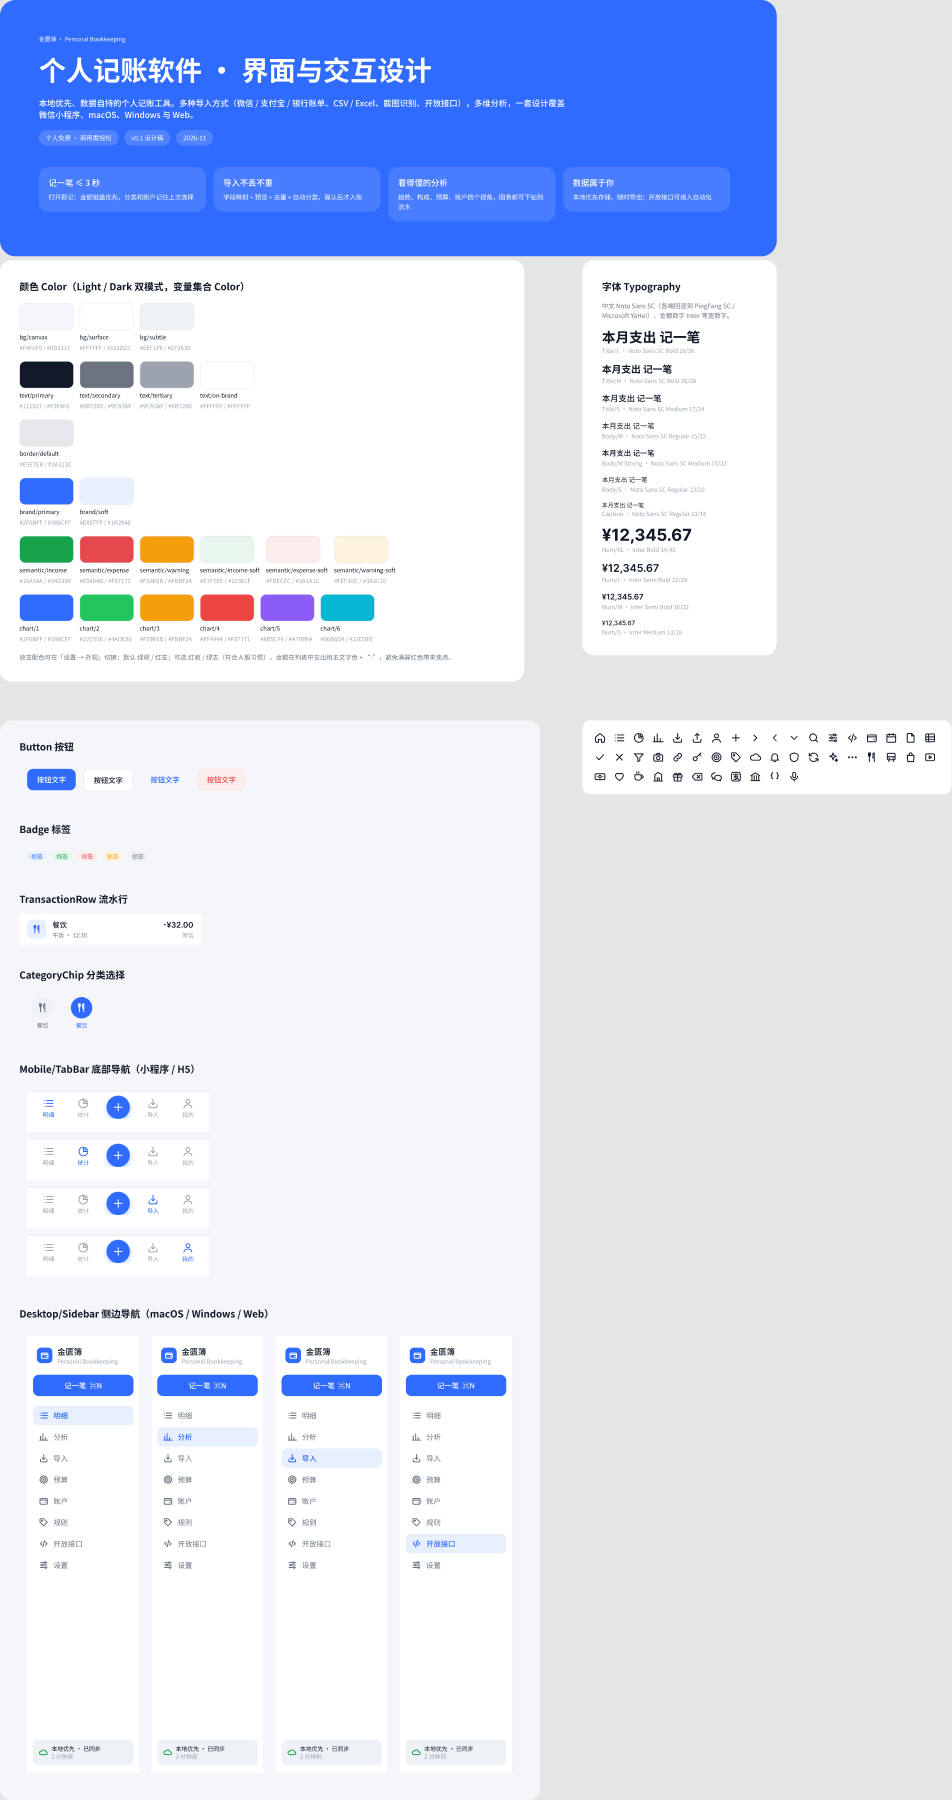
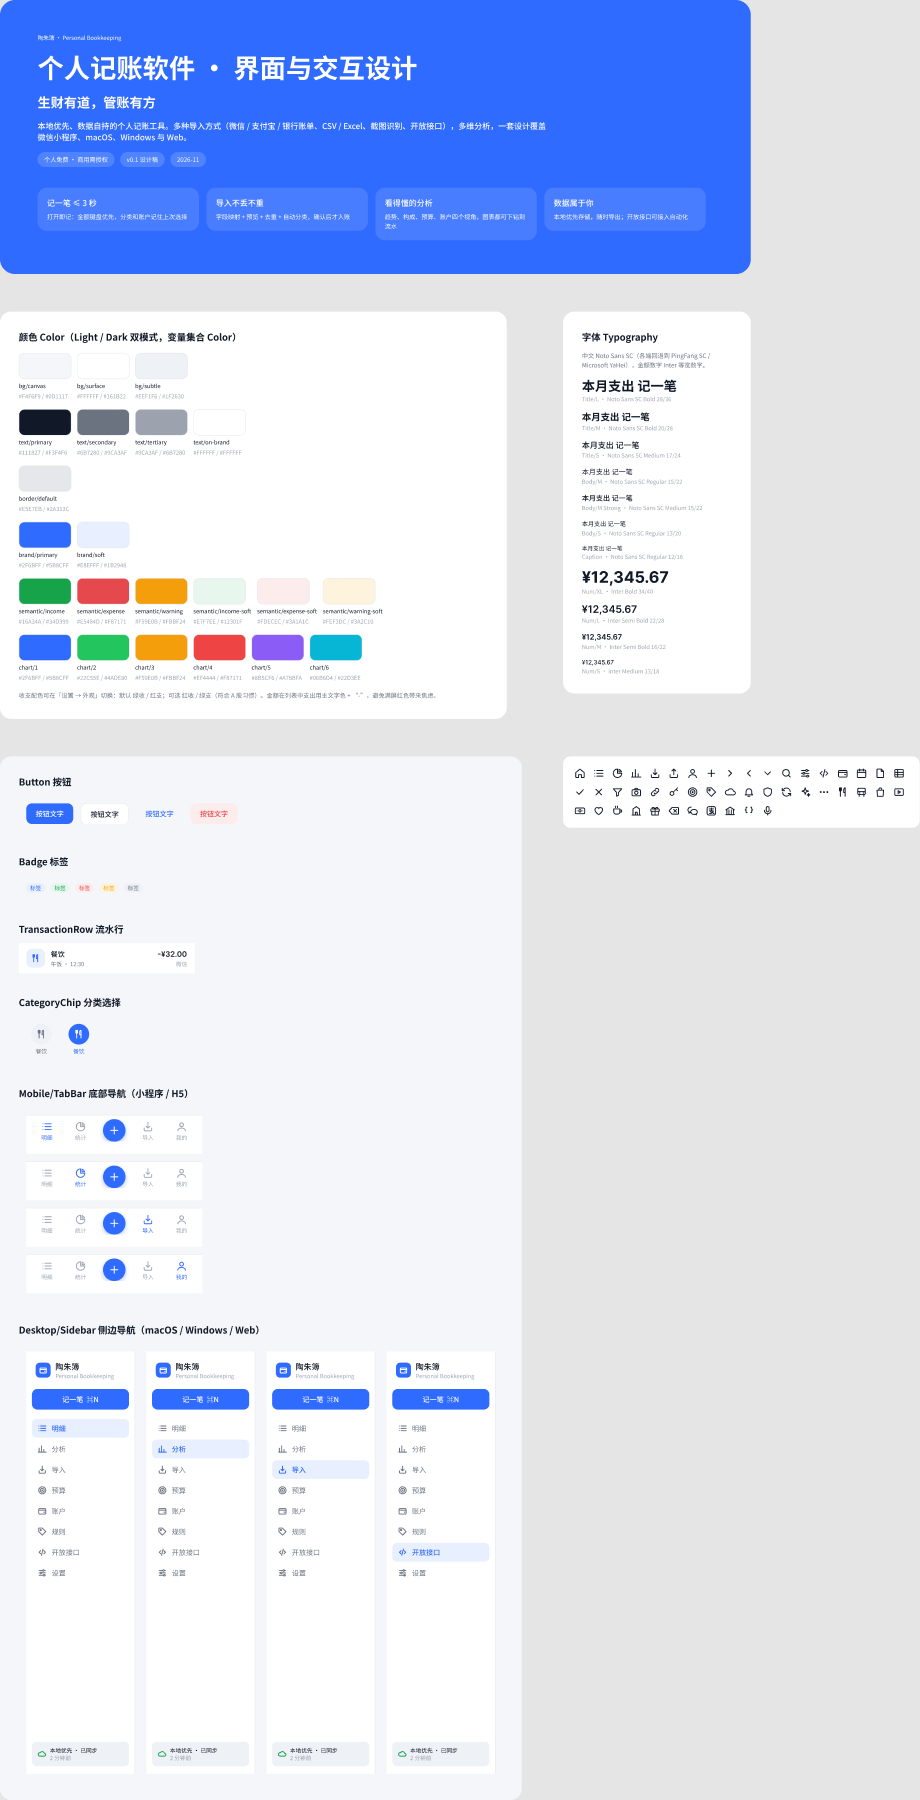
docs: 产品名改为「陶朱簿」并新增 slogan
Claude-Session: https://claude.ai/code/session_01HYpEqD2qsymTqPD5akUb5Q

Changed region(s): [[0.0, 0.0311, 1.0, 0.8711], [0.4261, 0.7467, 0.5478, 0.8711], [0.3043, 0.9644, 0.3348, 0.9956]]

diff --git a/docs/design/ui-interaction.md b/docs/design/ui-interaction.md
@@ -13,7 +13,12 @@
 
 ## 1. 产品定位与设计原则
 
-金匮簿（Personal Bookkeeping）是一个**本地优先、数据自持**的个人记账工具：多种账单导入方式、多维分析、开放接口，一套设计覆盖微信小程序、macOS、Windows 与 Web。个人使用免费，商用需授权（授权条款见仓库 LICENSE，由授权相关工作单独维护）。
+陶朱簿（Personal Bookkeeping）是一个**本地优先、数据自持**的个人记账工具：多种账单导入方式、多维分析、开放接口，一套设计覆盖微信小程序、macOS、Windows 与 Web。个人使用免费，商用需授权（授权条款见仓库 LICENSE，由授权相关工作单独维护）。
+
+**名称与 slogan**
+
+- 名称「陶朱簿」取自范蠡（陶朱公）：辅佐勾践成功后三次经商皆成巨富，后世以「陶朱」代称善于生财理财之人。寓意懂得生财，也懂得管账。
+- Slogan：**生财有道，管账有方**（英文副标题暂用 Personal Bookkeeping）。
 
 设计原则：
 
